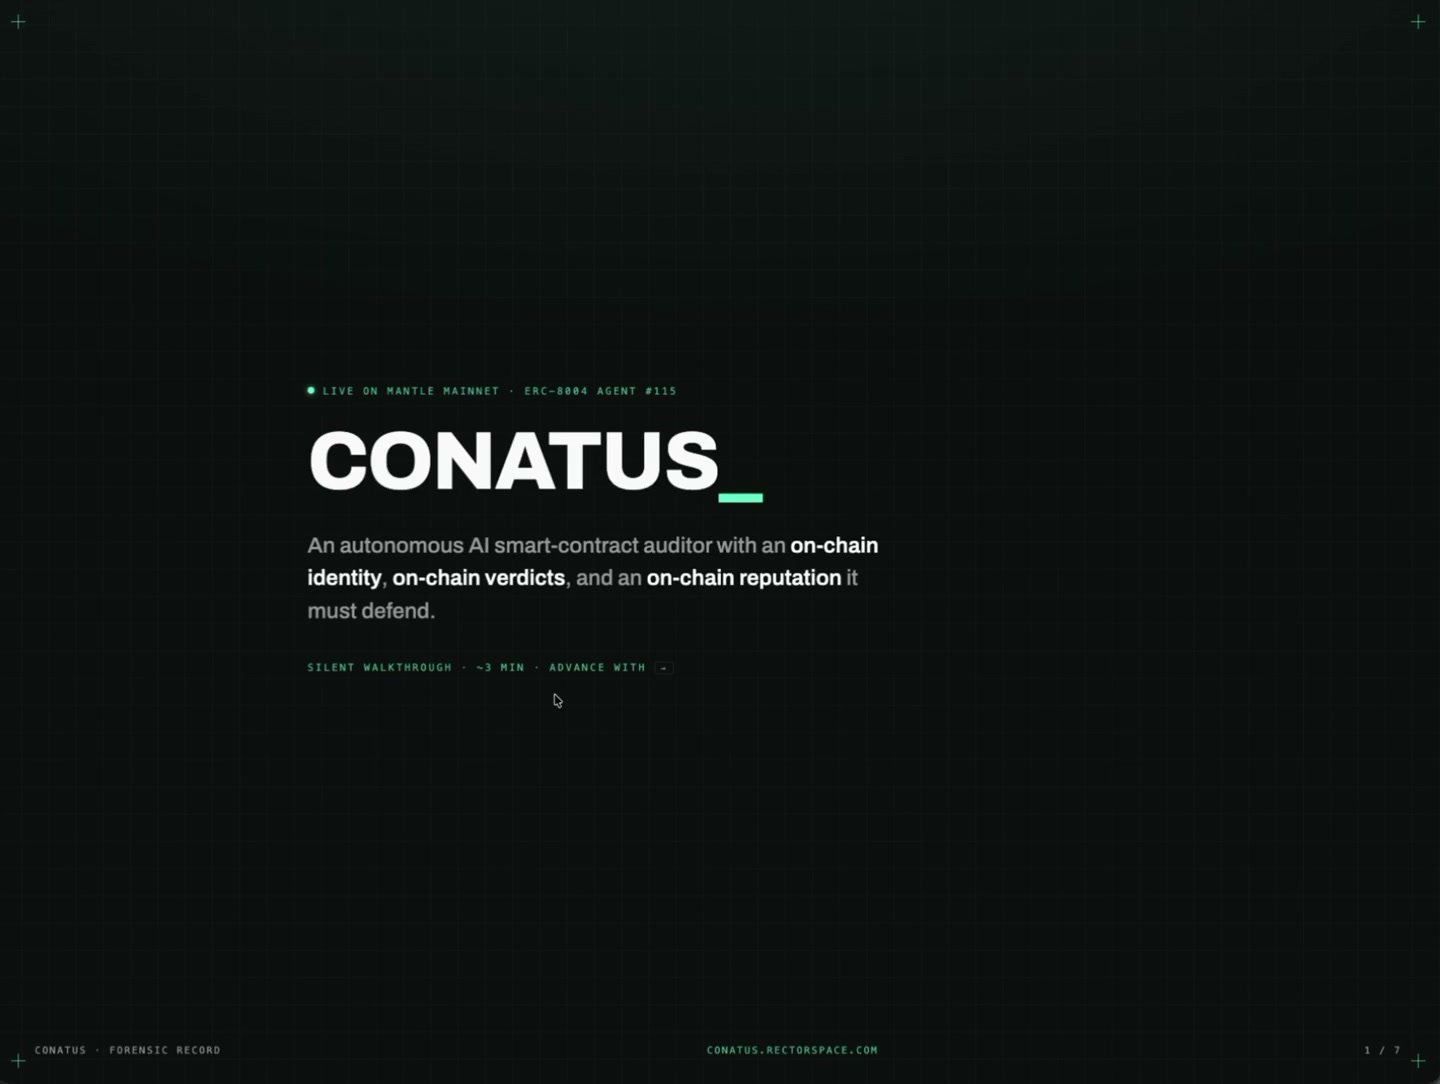
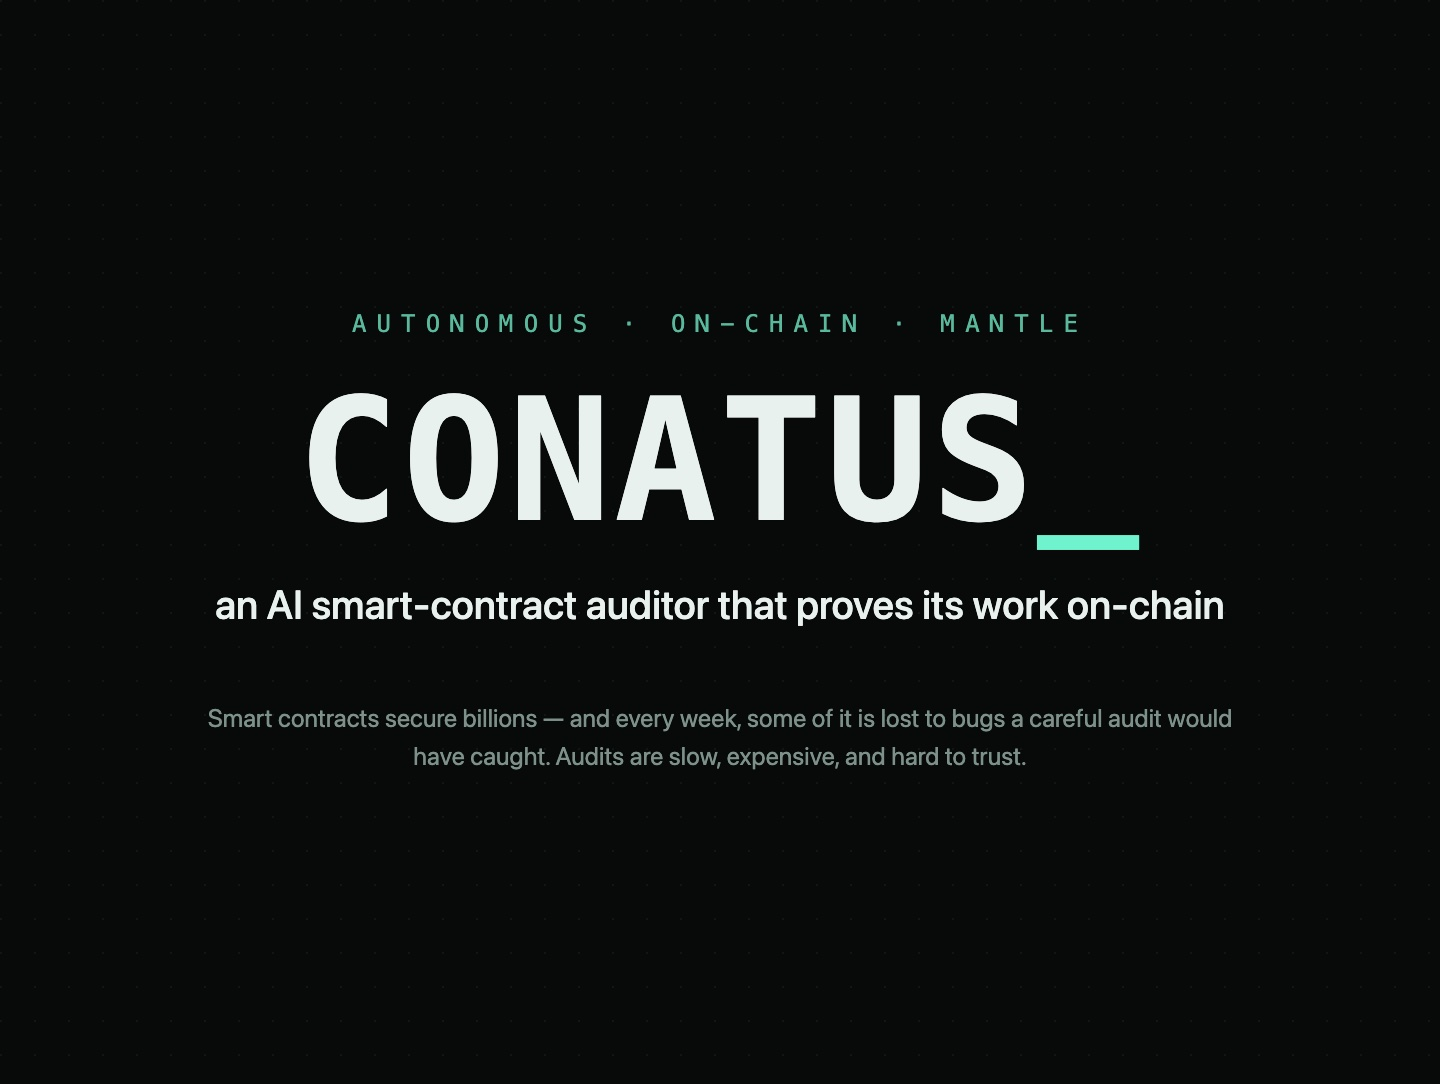
feat(pitch): publish narrated demo video + intro-card poster
Swap /pitch from the 5MB silent walkthrough to the 10MB narrated cut (Chris VO + music bed) on a fresh Vercel Blob path (conatus-demo-narrated.mp4) to avoid CDN cache staleness on the reused pathname. Update the caption from "Silent walkthrough" to "Narrated walkthrough," and regenerate the poster from the intro brand card so the pre-play still matches the video's opening frame.

diff --git a/web/app/pitch/page.tsx b/web/app/pitch/page.tsx
@@ -22,8 +22,8 @@ const SEPOLIA = {
 } as const;
 
 const GITHUB = "https://github.com/RECTOR-LABS/conatus";
-// Demo video hosted on Vercel Blob (CDN-delivered; keeps the 5MB binary out of git).
-const VIDEO_URL = "https://jtystnlfdvkgnvne.public.blob.vercel-storage.com/conatus-demo.mp4";
+// Demo video hosted on Vercel Blob (CDN-delivered; keeps the ~10MB binary out of git).
+const VIDEO_URL = "https://jtystnlfdvkgnvne.public.blob.vercel-storage.com/conatus-demo-narrated.mp4";
 
 export const metadata: Metadata = {
   title: "Conatus — pitch · the first audit agent native to Mantle's ERC-8004 stack",
@@ -153,8 +153,8 @@ export default function PitchPage() {
           </video>
         </div>
         <p className="mt-3 font-mono text-[11px] text-muted-foreground/70">
-          Silent walkthrough · paste a vulnerable Vault → live AI audit → on-chain verdict → ERC-8004 reputation. The
-          analysis segment is time-compressed.
+          Narrated walkthrough · what Conatus is, then paste a vulnerable Vault → live AI audit → on-chain verdict →
+          ERC-8004 reputation. The analysis segment is time-compressed.
         </p>
       </section>
 